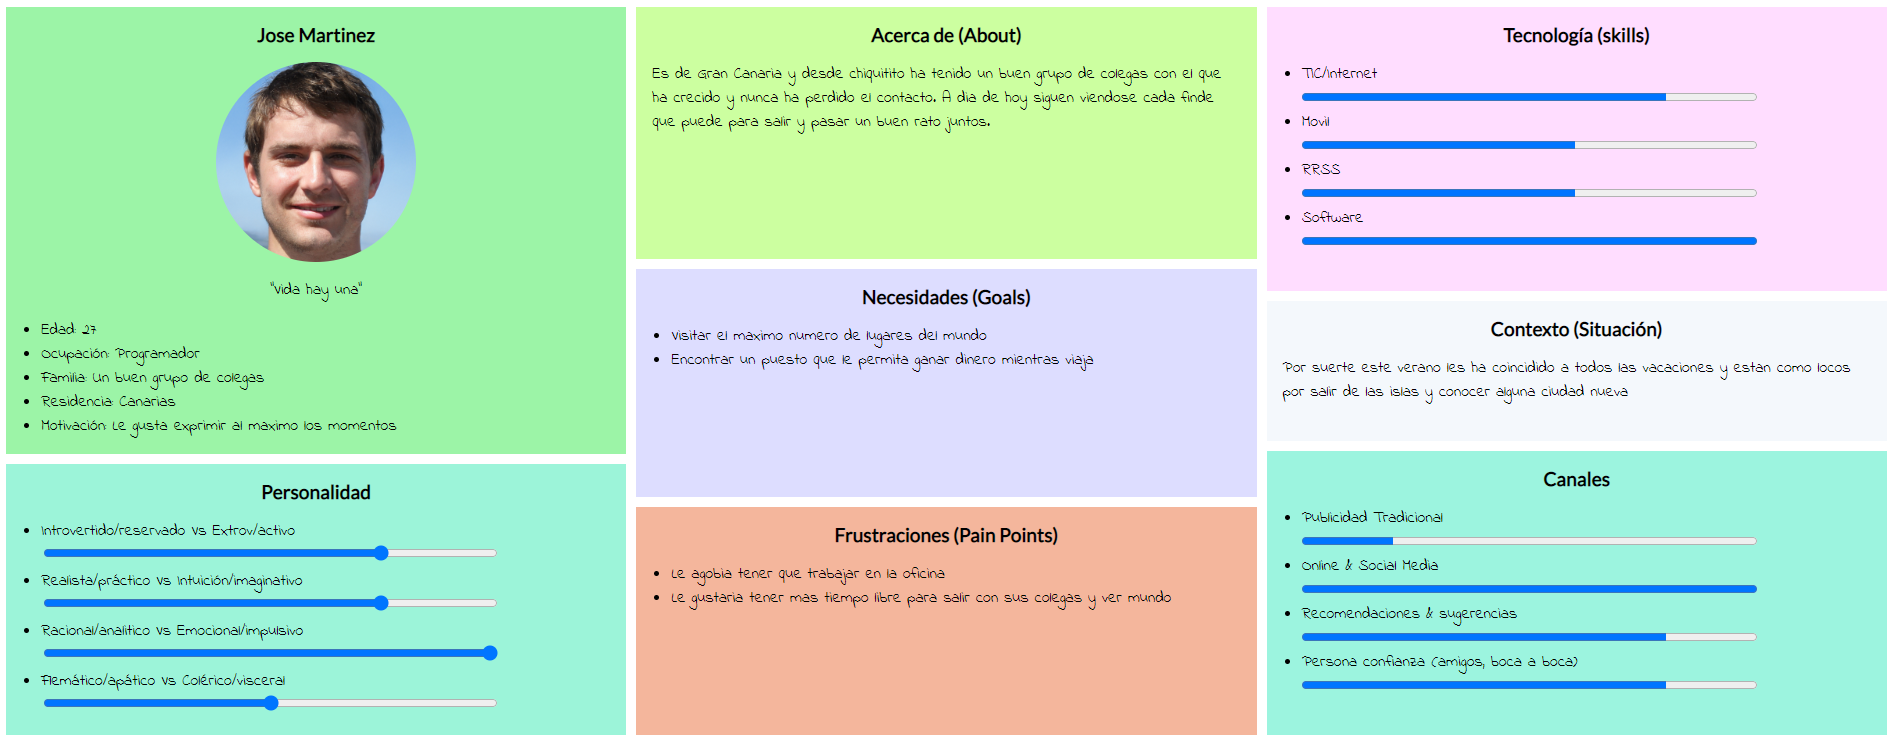
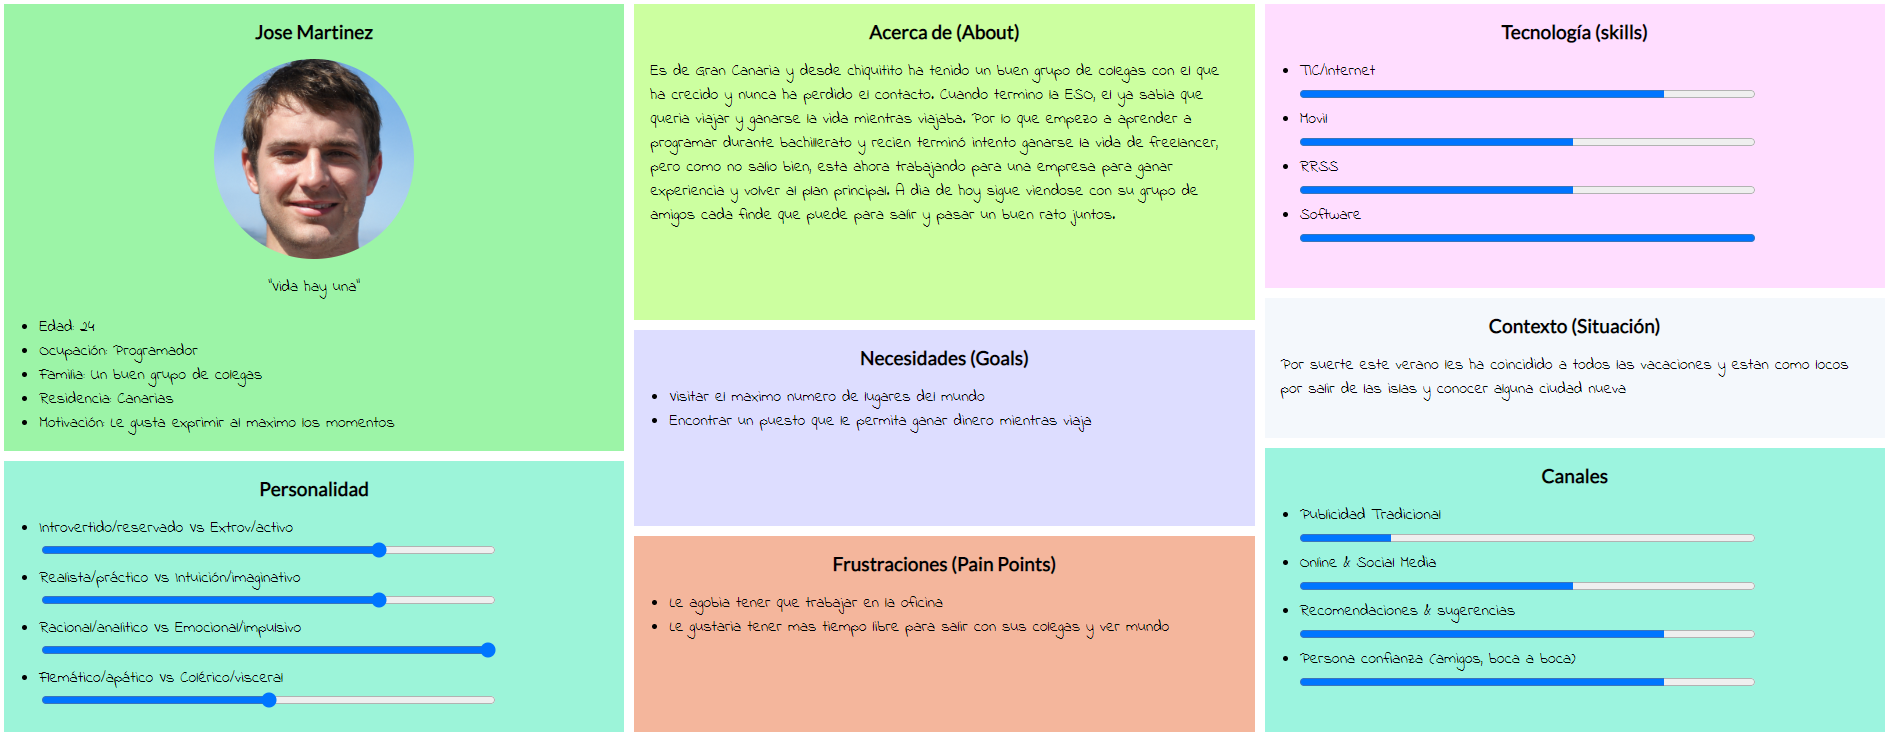
Journeys

diff --git a/UX-DIU-Toolkit-master/Journey.js b/UX-DIU-Toolkit-master/Journey.js
@@ -34,55 +34,55 @@ angular.module("angular", [])
                 /*************************************/
                 
 				Id: 0,
-				Name: "Pedro",
-                Photo: "man.png",
+				Name: "Jose Martinez",
+                Photo: "JoseMartinez.png",
     
                 /*** PASO #1: INSPIRACION ***/ 
-                goal1: "quiere preparar un viaje con sus amigos en Semana Santa",
-                touch1: "agenda",
-                feel1: "4",
-                con1: "ver cuantos días puede tener libres para organizar lugar de viaje ",
-                ima1: "cartoon-planning.png",
+                goal1: "Han coincidido las vacaciones de todos y se piensan ir de viaje",
+                touch1: "movil (whatsapp)",
+                feel1: "5",
+                con1: "Hay que evitar que ninguno de los compañeros se raje ",
+                ima1: "cartoon-shaking.png",
 				
                 /*** PASO #2: DECICION ***/ 
-                goal2: "Busca en internet ofertas para esas fechas",
-                touch2: "Movil",
-                feel2: "2",
-                con2: "hay demasiada información y pierde mucho tiempo, no hay precios 'baratos'",
-                ima2: "cartoon-PCangry.png",
+                goal2: "Deciden irse a Paris, ya que es una de las ciudades mas emblematicas de Europa",
+                touch2: "Restaurante(quedada)",
+                feel2: "4",
+                con2: "A alguno le parece un poco muermo Paris, pero al final siempre terminan pasandoselo de lujo",
+                ima2: "cartoon-teamthinking.png",
                 
                 /*** PASO #3: ACTUA ***/ 
                 
-                goal3: "Decide buscar un alojamiento rural  en plasencia, donde hay procesiones y parece que hará buen tiempo",
-                touch3: "móvil (el tiempo)",
+                goal3: "Tienen que encontrar el billete, el hotel y planificar minimamente lo que van a hacer",
+                touch3: "portatil (videollamada)",
                 feel3: "3",
-                con3: "Está preocupado por el tiempo y el desplazamiento (coche y aparcamiento)",
-                ima3: "cartoon-phone.png",
+                con3: "Es muy aburrido y complicado ponerse a mirar y cuadrar tantas cosas",
+                ima3: "cartoon-PChard.png",
                 
                 /*** PASO #4: OBSERVA ***/ 
                 
-                goal4: "Los amigos le recomiendan una página para escoger alojamientos",
-                touch4: "ordenador",
-                feel4: "4",
-                con4: "Buscar opciones en el lugar que había seleccionado, viendo precios y distancias, tiene que ver si hay aparcamiento fácil",
-                ima4: "cartoon-PCtyping.png",
+                goal4: "Ya con el billete y hotel comprado, se pone a buscar por internet planes para hacer por paris y ve que hay una pagina que tiene guias gratis por todo paris, pero tienen que planificarse aun mas para coincidir con el guia",
+                touch4: "portatil (videollamada)",
+                feel4: "2",
+                con4: "No les bastaba con cuadrar los vuelos y los planes, que ahora tienen que ver un guia decente para que les enseñe la ciudad",
+                ima4: "cartoon-PCangry.png",
                 
                  /*** PASO #5: ANALIZA ***/ 
                 
-                goal5: "Se encuentra 3 opciones que encajan en sus preferencias",
-                touch5: "móvil (whatsapp)",
+                goal5: "Cuando llega el dia, se ven con el guia y hacen la ruta por el centro",
+                touch5: "en persona",
                 feel5: "2",
-                con5: "Llama a sus amigos (whatsapp no responen) para ver cual es su preferencia, tienen que reservar rápido por los precios",
-                ima5: "cartoon-phoning.png",
+                con5: "El guia no se le da del todo bien el español y encima pierde mucho el tiempo en cosas que no le interesan",
+                ima5: "cartoon-speaking.png",
                 
                 
                 /*** PASO #6: CONCLUSION ***/ 
                 
-                goal6: "Consigue reservar, otro año se encarga otro!",
-                touch6: "ordenador",
-                feel6: "3",
-                con6: "algunos amigos no confirmaron por lo que tuvo que seleccionar reserva con posibilidad de cancelación",
-                ima6: "cartoon-resting.png",
+                goal6: "Termina la guia y se ve que hay que pagarle algo, ¿¡ No se supone que era gratis?!",
+                touch6: "en persona",
+                feel6: "1",
+                con6: "Se ve que por algun lado de la pagina ponia que habia que pagarle \"algo\" y no nos dimos cuenta",
+                ima6: "cartoon-why.png",
                 
 			},
 			{	
@@ -92,55 +92,55 @@ angular.module("angular", [])
                 /*************************************/
                 
 				Id: 1,
-				Name: "Monica Suarez",
-                Photo: "woman.png",
+				Name: "Jose Martinez",
+                Photo: "JoseMartinez.png",
                 
 				 /*** PASO #1: INSPIRACION ***/ 
-                goal1: "Quiere preparar un viaje con su familia para Verano, tiene sólo 15 dias libres",
-                touch1: "agenda",
+                goal1: "Han coincidido las vacaciones de todos y se piensan ir de viaje",
+                touch1: "movil (whatsapp)",
                 feel1: "5",
-                con1: "Quiere ir a un pais exotico pero que tenga atracciones para niños pequeños",
-                ima1: "cartoon-going.png",
-                
+                con1: "Hay que evitar que ninguno de los compañeros se raje ",
+                ima1: "cartoon-shaking.png",
+				
                 /*** PASO #2: DECICION ***/ 
-                goal2: "Ir a una agencia de viajes, y decirle sus preferencias y planes",
-                touch2: "Servicio (agencia)",
+                goal2: "Deciden irse a Paris, ya que es una de las ciudades mas emblematicas de Europa",
+                touch2: "Restaurante(quedada)",
                 feel2: "4",
-                con2: "Tiene que desplazarse a agencia, explica su intenciones, le llamaran porque no hay nada interesante",
+                con2: "A alguno le parece un poco muermo Paris, pero al final siempre terminan pasandoselo de lujo",
                 ima2: "cartoon-teamthinking.png",
                 
                 /*** PASO #3: ACTUA ***/ 
                 
-                goal3: "Le llaman a los pocos días con un viaje que no le convence",
-                touch3: "Móvil (llamada)",
-                feel3: "2",
-                con3: "Piensa que ha perdido el tiempo",
-                ima3: "cartoon-phoningangry.png",
+                goal3: "Tienen que encontrar el billete, el hotel y planificar minimamente lo que van a hacer",
+                touch3: "portatil (videollamada)",
+                feel3: "3",
+                con3: "Es muy aburrido y complicado ponerse a mirar y cuadrar tantas cosas",
+                ima3: "cartoon-PChard.png",
                 
                 /*** PASO #4: OBSERVA ***/ 
                 
-                goal4: "Busca una oferta en hoteles cerca de playa y con parque atracciones",
-                touch4: "Móvil (webapp)",
-                feel4: "2",
-                con4: "No hay mucha información del alojamiento ni de lo que hay alrededor, aunque el precio está bien, va por la calle por lo que está incómoda",
-                ima4: "cartoon-phone-street.png",
+                goal4: "Uno de los colegas que va dice que conoce una aplicacion que tiene guias de toda Paris para que uno las vaya viendo con libertad",
+                touch4: "movil (whatsapp)",
+                feel4: "4",
+                con4: "Al parecer hay que pagar 5 euros para tener acceso a todo Paris y no unicamente a un barrio",
+                ima4: "cartoon-deciding.png",
                 
                  /*** PASO #5: ANALIZA ***/ 
                 
-                goal5: "Reserva a traves de la aplicación ",
-                touch5: "Móvil (webapp)",
-                feel5: "3",
-                con5: "Le pide muchos datos y le resulta incómodo completar formulario",
-                ima5: "cartoon-phone-sitting.png",
+                goal5: "El primer dia se fueron todos al barrio gratuito y probaron la aplicacion",
+                touch5: "Móvil (app)",
+                feel5: "5",
+                con5: "Aunque esta super guay y puedes escuchar y ver lo que quieras, las historias no varian de una vez a otra (pregrabadas)",
+                ima5: "cartoon-phone.png",
 
                 
                 /*** PASO #6: CONCLUSION ***/ 
                 
-                goal6: "Consiguie reservar para vacaciones pero no era lo que tenía en mente",
-                touch6: "Ordenador (reserva OK)",
-                feel6: "2",
-                con6: "Tendrá que buscar más información del lugar para ver que actividades ofrece y donde aparacar!",
-                ima6: "cartoon-PChard.png",
+                goal6: "Se terminan comprando dos compañeros mas la aplicacion para asi tener una aplicacion para cada dos y disfrutar todos de la ciudad",
+                touch6: "Móvil (app)",
+                feel6: "5",
+                con6: "Estaria bien algun tipo de pack para grupos o una cuenta grupal",
+                ima6: "cartoon-happy.png",
                 
                 
                 

diff --git a/UX-DIU-Toolkit-master/Persona.js b/UX-DIU-Toolkit-master/Persona.js
@@ -36,7 +36,7 @@ angular.module("angular", [])
 				Name: "Jose Martinez",
 				Photo: "JoseMartinez.png",
 				Quote: "Vida hay una",
-				Age: 27,
+				Age: 24,
 				Occupation: "Programador",
 				Family: "Un buen grupo de colegas",
 				Location: "Canarias",
@@ -49,7 +49,7 @@ angular.module("angular", [])
 				], 
 				Goals: ["Visitar el maximo numero de lugares del mundo", "Encontrar un puesto que le permita ganar dinero mientras viaja"],
 				Frustrations: ["Le agobia tener que trabajar en la oficina", "Le gustaria tener mas tiempo libre para salir con sus colegas y ver mundo"],
-				Bio: "Es de Gran Canaria y desde chiquitito ha tenido un buen grupo de colegas con el que ha crecido y nunca ha perdido el contacto. A dia de hoy siguen viendose cada finde que puede para salir y pasar un buen rato juntos.",
+				Bio: "Es de Gran Canaria y desde chiquitito ha tenido un buen grupo de colegas con el que ha crecido y nunca ha perdido el contacto. Cuando termino la ESO, el ya sabia que queria viajar y ganarse la vida mientras viajaba. Por lo que empezo a aprender a programar durante bachillerato y recien terminó intento ganarse la vida de freelancer, pero como no salio bien, esta ahora trabajando para una empresa para ganar experiencia y volver al plan principal. A dia de hoy sigue viendose con su grupo de amigos cada finde que puede para salir y pasar un buen rato juntos.",
 				Tech: [
 					{ Name: "TIC/Internet", Value: 4 },
 					{ Name: "Movil", Value: 3 },
@@ -60,9 +60,50 @@ angular.module("angular", [])
                 Contextos: "Por suerte este verano les ha coincidido a todos las vacaciones y estan como locos por salir de las islas y conocer alguna ciudad nueva",  
 				PreferredChannels: [
 					{ Name: "Publicidad Tradicional", Value: 1 },
-					{ Name: "Online & Social Media", Value: 5 },
+					{ Name: "Online & Social Media", Value: 3 },
 					{ Name: "Recomendaciones & sugerencias", Value: 4 },
 					{ Name: "Persona confianza (amigos, boca a boca)", Value: 4 }
+				]
+			},
+			{	
+                
+                /*************************************/
+                /**** SEGUNDA PERSONA          *******/
+                /*** Cambiar datos             *******/
+                /*************************************/
+                
+                
+				Id: 1,
+				Name: "Monica Suarez",
+				Photo: "woman.png",
+				Quote: "A quotation that captures the essence of this person's personality",
+				Age: 17,
+				Occupation: "Searching for a cure for the Empress",
+				Family: "No parents, only family are the people who raised him.",
+				Location: "The Grassy Plains of Fantasia",
+				Character: "Strong, reliable and fearless.",
+				PersonalityTraits: [
+					{ Name: "Introvertido/reservado Vs  Extrov/activo ", Value: 3 },
+					{ Name: "Realista/práctico  Vs    Intuición/imaginativo", Value: 3 },
+					{ Name: "Racional/analitico  Vs   Emocional/impulsivo", Value: 2 },
+					{ Name: "Flemático/apático  Vs   Colérico/visceral", Value: 2 }
+				], 
+				Goals: ["The goals this user hopes to achieve.", "A task that needs to be completed.", "A life goal to be reached.", "An experience to be felt."],
+				Frustrations: ["The frustrations this user would like to avoid.", "The obstacle that prevents the user from achieving their goals.", "The problems with the solutions already available.", "The product or service which does not currently exist."],
+				Bio: "The bio should be a short paragraph to describe the user journey. It should include some of their history leading up to a current use case. It may be helpful to incorporate information listed across the template and add pertinent details that may have been left out. Highlight factors of the user's personal and professional life that make this user an ideal customer of your product.",
+				Tech: [
+					{ Name: "TIC/Internet", Value: 5 },
+					{ Name: "Mobile", Value: 3 },
+					{ Name: "RRSS", Value: 3 },
+					{ Name: "Software", Value: 5 }
+					
+				], 
+                Contextos:   "The goals this user hopes to achieve." ,
+				PreferredChannels: [
+					{ Name: "Publicidad Tradicional (Ads)", Value: 5 },
+					{ Name: "Online & Social Media", Value: 2 },
+					{ Name: "Recomendaciones & sugerencias", Value: 2 },
+					{ Name: "Persona confianza (amigos, boca a boca)", Value: 2 }
 				]
 			}
 		];

diff --git a/UX-DIU-Toolkit-master/styles.css b/UX-DIU-Toolkit-master/styles.css
@@ -127,7 +127,7 @@ ul {
 /*** https://www.w3schools.com/cssref/tryit.asp?filename=trycss_grid-row **/
 .grid-container {
   display: grid;
-  grid-template-columns: 10% 15% 15% 15% 15% 15% 15%;
+  grid-template-columns: 10% 15% 15% 15% 15% 15% 13.25%;
   grid-gap: 5px;
   background-color: #2196F3;
   padding: 5px;

diff --git a/Segunda Parte/README.md b/Segunda Parte/README.md
@@ -18,3 +18,12 @@ Ya viendo lo que la aplicacion CityMe quiere conseguir y como se diferencia de s
 
 ![Persona](fotos/JoseMartinez.PNG)
 
+Ya teniendo a nuestro personaje ficticio, vamos a hacer dos journeyMaps con ambas aplicaciones para sacar nuestras primeras conclusiones
+
+## Journey Map
+
+![Journey GuruWalk](fotos/GuruWalkJourney.PNG)
+
+![Journey CityMe](fotos/CityMeJourney.PNG)
+
+
